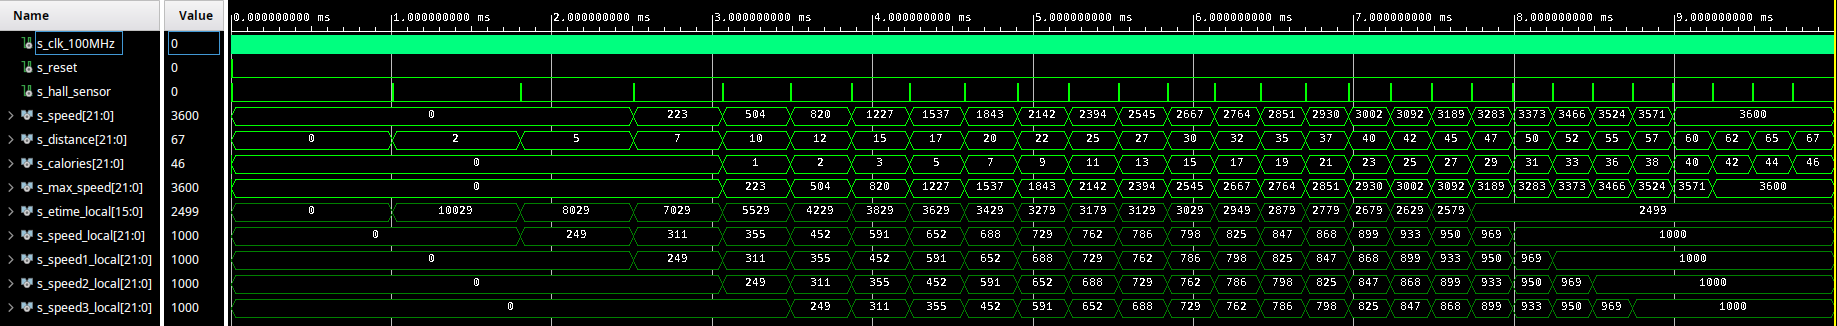
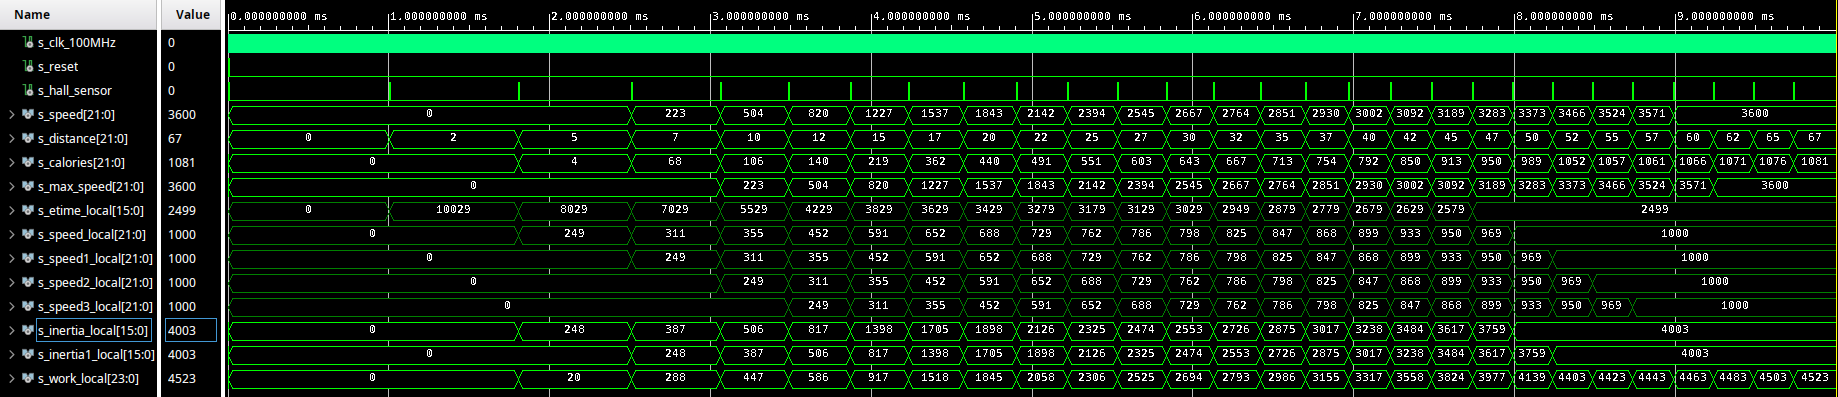
Added description of p_calc

diff --git a/README.md b/README.md
@@ -15,17 +15,19 @@
 
 Úkolem tohoto projektu bylo vytvořit konzoli pro měření otáček rotopedu. Toto měření následně vede na rozšíření jako napříkad měření rychlosti, ujeté vzdálenosti, průměrné rychlosti atd. 
 
-V našem případě jsme se rozhodli pro snímání otáček použít čidlo [44E](https://dratek.cz/arduino/7735-halluv-senzor-44e.html?gclid=CjwKCAjwj6SEBhAOEiwAvFRuKIS_8uQ_ZEzr9x-yYRR3fPEQ0RS04KZdMaqaGm8xElUVrgnHnGZ3SxoCdZ4QAvD_BwE), který obsahuje halovu sondu. Napájecí napětí čidla je 4,5-24V Výstupem čidla je buď logická 0 nebo 1. Pokud tento sensor umístíme na pevný bod v blízkoti otáčenícího kola, je nutné přidat na otáčejí se kole magnetický puk. Následně při otáčení kola snímač vygeneruje signál pomocí kterého můžeme určit požadované veličiny. 
+V našem případě jsme se rozhodli pro snímání otáček použít čidlo [44E](https://dratek.cz/arduino/7735-halluv-senzor-44e.html?gclid=CjwKCAjwj6SEBhAOEiwAvFRuKIS_8uQ_ZEzr9x-yYRR3fPEQ0RS04KZdMaqaGm8xElUVrgnHnGZ3SxoCdZ4QAvD_BwE), který obsahuje halovu sondu. Napájecí napětí čidla je 4,5-24V Výstupem čidla je buď logická 0 nebo 1. Pokud tento sensor umístíme na pevný bod v blízkoti otáčenícího kola, je nutné přidat na otáčejí se kole magnetický puk. Následně při otáčení kola snímač vygeneruje signál pomocí kterého můžeme určit požadované veličiny.
+
 Pro následní zobrazení měřené veličiny byl využit 4x7 segmentový displej a tři ledky pro indikaci zobrazovaného výstupu (zapnuto/vypnuto, přepínání zobrazení, reset systému).
 
 ## Popis zapojení 
 TODO
 
 ## Programová část
-### Popis problému s Měřením času
-Čidlo vždy vygeneruje klesající hranu, když kolem něj projede magnet umístěný na kole setrvačníku. V topu vstup ale invertujeme, pro snažší pochopení. Tento signál značí jednu otáčku setrvačníku, který simuluje setrvačnost jízdního kola a člověka na něm. Interval mezi klesajícími hrany tedy je doba za kterou virtuální kolo urazí jednu otočku kola. Podle vzorečku v=s/t můžeme vypočítat rychlost, kde s je virtuální vzdálenost jedné otočky setrvačníku (je tedy konstantní) a t je čas mezi signálem ze senzoru.  
+### Popis řešení měření času
+Čidlo vždy vygeneruje klesající hranu, když kolem něj projede magnet umístěný na kole setrvačníku. V topu vstup ale invertujeme, pro snažší pochopení. Tento signál značí jednu otáčku setrvačníku, který simuluje setrvačnost jízdního kola a člověka na něm. Interval mezi klesajícími hrany tedy je doba za kterou virtuální kolo urazí jednu otočku kola. Podle vzorečku v=s/t můžeme vypočítat rychlost, kde s je virtuální vzdálenost jedné otočky setrvačníku (je tedy konstantní) a t je čas mezi signálem ze senzoru.
+
 K měření času se dá použít hodinový zdroj z FPGA který má 100&nbsp;MHz. Rozlišovací schopnost 10&nbsp;ns je pro toto použití moc přesná a plítvali bychom zbytečně prostředky na např. 32 bitovém čitači, když můžeme použít 16 bitový. Tedy aby pro čas kolem 250&nbsp;us se musí prodloužit interval mezi náběžnými hranami. Pro tento účel se použije dělička časových hodin v podobě modulu clock_enable, který máme z dřívějších cvičení. Poté něčím musíme počítat jednotlivé pulzy, pro toto použijeme také ze cvičení naprogramovaný obousměrný čítač, který pro tento účel zjednodušíme a uděláme z něj jen jednoduchý čítač nahoru. Nasčítaný počet pulzů tedy odpovídá času, který trvala jedna otočka setrvačníku. Pro vyšší přesnost se při každé otočce vyresetuje i modul clock_enable.
-#### Náhled do bloku s instancemi clock_aneble a cnt_up a procesu etime (elapsed time)
+#### Náhled do bloku s instancemi `clock_enable` a `cnt_up` a procesu `p_etime` (elapsed time)
 ```vhdl
     --------------------------------------------------------------------
     -- Instance (copy) of clock_enable entity
@@ -79,7 +81,64 @@ K měření času se dá použít hodinový zdroj z FPGA který má 100&nbsp;MHz
     end process p_etime;
 ```
 #### Popis kódu
-Proces p_etime má za úkol měřit čas, počítat vstupní hodnoty, přiřazovat naměřený čas do signálu `s_etime_local` a posílat signál `s_rst_t` a tím resetovat `clk_en1` a `bin_cnt0`. Reset proběhne vždy když příjde náběžná hrana z hallova senzoru. Také se musí kontrolovat, jestli už neuplynula moc dlouhá doba od posledního vstupu a v případě potřeby vynulovat čas v signálu `s_etime`. V tomto případě je potřeba přeskočit další měření, kdeby mohla kvůli jedoucímu čítači přetéct maximální hodnota času (0.1*2^16&nbsp;ms&nbsp;=&nbsp;6.5536&nbsp;s) a mohlo by to odečíst špatnou hodnotu. Pro tento účel je zde signál `s_skip`, který zaručí, že při další náběžné hraně se aktuální hodnota nebude měřit a jen proběhne reset čítače a děliče. Při globálním resetu se vyresetuje vše a nastaví se `s_skip`, aby další náběžnou hranu to nepočítalo. Lokální reset `s_rst_t` trvá do dalšího clocku a dokud není vyresetovaný čitač.
+Proces p_etime má za úkol měřit čas, počítat vstupní hodnoty, přiřazovat naměřený čas do signálu `s_etime_local` a posílat signál `s_rst_t` a tím resetovat `clk_en1` a `bin_cnt0`. Reset proběhne vždy když příjde náběžná hrana z hallova senzoru. Také se musí kontrolovat, jestli už neuplynula moc dlouhá doba od posledního vstupu a v případě potřeby vynulovat čas v signálu `s_etime`. V tomto případě je potřeba přeskočit další měření, kdeby mohla kvůli jedoucímu čítači přetéct maximální hodnota času (0.1*2^16&nbsp;ms&nbsp;=&nbsp;6.5536&nbsp;s) a mohlo by to odečíst špatnou hodnotu. Pro tento účel je zde signál `s_skip`, který zaručí, že při další náběžné hraně se aktuální hodnota nebude měřit a jen proběhne reset čítače a děliče. Lokální reset `s_rst_t` trvá do dalšího clocku a dokud není vyresetovaný čitač. Při globálním resetu se vyresetuje vše a nastaví se `s_skip`, aby to další náběžnou hranu nepočítalo. 
+
+### Počítání rychlosti, vzdálenosti a energie
+Rychlost se počítá pomocí vzorečku v=s/t. Tedy v\[*dm/s*\]&nbsp;=&nbsp;`g_WHEEL_CIRCUMFERENCE`\[*cm*\]/`s_etime`\[*ms/10*\]. Vzdálenost se počítá podle otočení setrvačníku násobeného obvodem virtuálního kola (`g_WHEEL_CIRCUMFERENCE`).
+
+Energie mezi otočením se dá rozdělit na rozdíl kinetických energií mezi otečením a aktuálnímu odporu (zátěže) potřebné pro jedno otočení. Kinetická energie se spočítá jako Eₖ&nbsp;=&nbsp;1/2&nbsp;J&nbsp;ω². Práce je součet vykonané energie, tedy pokud budeme počítat jednotlivé díly jak roste, tak dojdeme k celkové energii. Design programu je tímto připraven například na měření okamžitého výkonu.
+
+Pro zátěž počítáme s teoretickou, která bude sestávat jen z práce potřebné pro jednu otočku tedy čím vyšší úhlová rychlost, tím vyšší odpor. Výpočet Wₒ&nbsp;=&nbsp;2π F<sub>b</sub> .
+V Programu se jedná o `g_RESISTLOAD` a o `g_INERTIA_MOMENT`, kde `g_INERTIA_MOMENT` musí být vynásoben 10000π, aby odpovídal jednotkám SI.
+
+#### Náhled na kód procesu `p_calc` a přiřazení dat výstupním signálům
+```vhdl
+    --------------------------------------------------------------------
+    -- p_calc:
+    -- Calculate actual speed (average of last four speeds).
+    -- Also monitor maximal speed, calories in total.
+    --------------------------------------------------------------------
+    p_calc : process(hall_sensor_i,reset,s_etime_local)
+    begin
+        if falling_edge(reset) then
+            s_speed_local <= (others => '0');
+            s_speed1_local <= (others => '0');
+            s_speed2_local <= (others => '0');
+            s_speed3_local <= (others => '0');
+            s_avg_speed_local <= (others => '0');
+            s_max_speed_local <= (others => '0');
+            s_inertia_local <= (others => '0');
+            s_inertia1_local <= (others => '0');
+            s_work_local <= (others => '0');
+        elsif (s_etime_local = x"0000") and not (reset = '1') then --flywheel is stopped
+            s_speed_local <= (others => '0');
+            s_speed1_local <= (others => '0');
+            s_speed2_local <= (others => '0');
+            s_speed3_local <= (others => '0');
+            s_avg_speed_local <= (others => '0');
+        elsif rising_edge(hall_sensor_i) and not (reset = '1') then
+            s_speed3_local <= s_speed2_local;
+            s_speed2_local <= s_speed1_local;
+            s_speed1_local <= s_speed_local;
+            s_speed_local <= (g_WHEEL_CIRCUMFERENCE*10000/resize(s_etime_local, 22)); -- m*1e-6/s*1e-4=cm/s
+            s_avg_speed_local <= resize(resize(s_speed_local+s_speed1_local+s_speed2_local+s_speed3_local, 24)/4, 22);
+            if (s_max_speed_local < s_avg_speed_local) then
+                s_max_speed_local <= s_avg_speed_local;
+            end if;
+            s_inertia1_local <= s_inertia_local;
+            s_inertia_local <= resize(g_INERTIA_MOMENT/((s_etime_local * s_etime_local)/5000), 16);
+            s_work_local <= s_work_local + s_inertia_local - s_inertia1_local + g_RESISTLOAD; -- in Joules
+        end if;
+    end process p_calc;
+    
+    speed_o <= std_logic_vector(resize(resize(s_avg_speed_local*36, 26)/10, 22));
+    max_speed_o <= std_logic_vector(resize(resize(s_max_speed_local*36, 26)/10, 22));
+    distance_o <= std_logic_vector(resize(resize(s_distance_local * g_WHEEL_CIRCUMFERENCE, 30) / 100, 22));
+    calories_o <= std_logic_vector(resize(resize(s_work_local*1000, 26)/4184, 22)); -- 1cal = 4.184 Joules
+```
+#### Popis kódu
+
+TODO
 
 ### Simulace 
 
